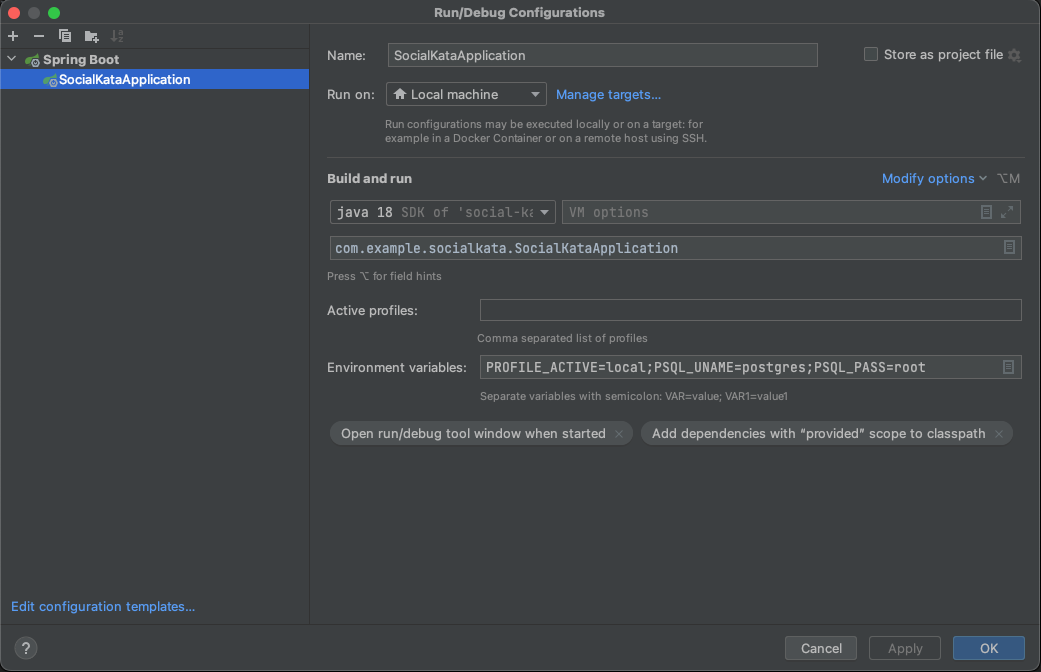
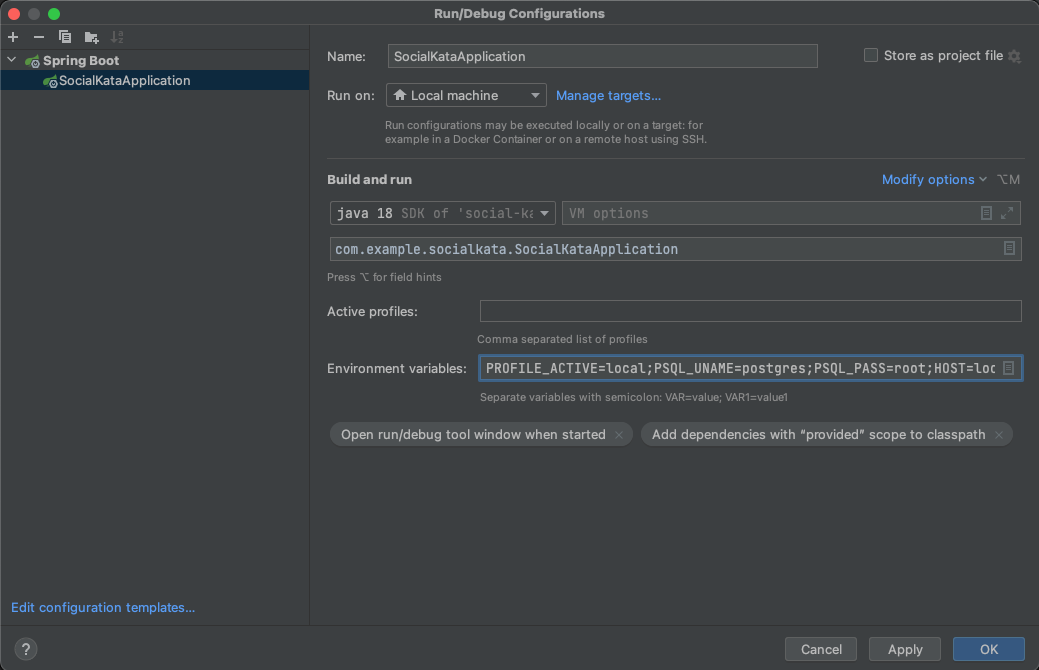
v2.1 profile sb with env variables

diff --git a/readme.md b/readme.md
@@ -668,9 +668,13 @@ Flyway позволяет контролировать структуру баз
 
 ```
 Для переключения конфигурации на local необходимо задать значения следующих environment variables
-PROFILE_ACTIVE (активный профиль)
-PSQL_UNAME (username локальной БД)
-PSQL_PASS (пароль к локальной БД)
+PROFILE_ACTIVE=local
+HOST=localhost
+PORT=5432
+BD_NAME=(имя вашей локальной БД)
+PSQL_UNAME=(ваше username локальной БД)
+PSQL_PASS=(ваш пароль к локальной БД)
+
 ```
 Для этого нужно:
 1. Зайти в редактирование конфигурации
